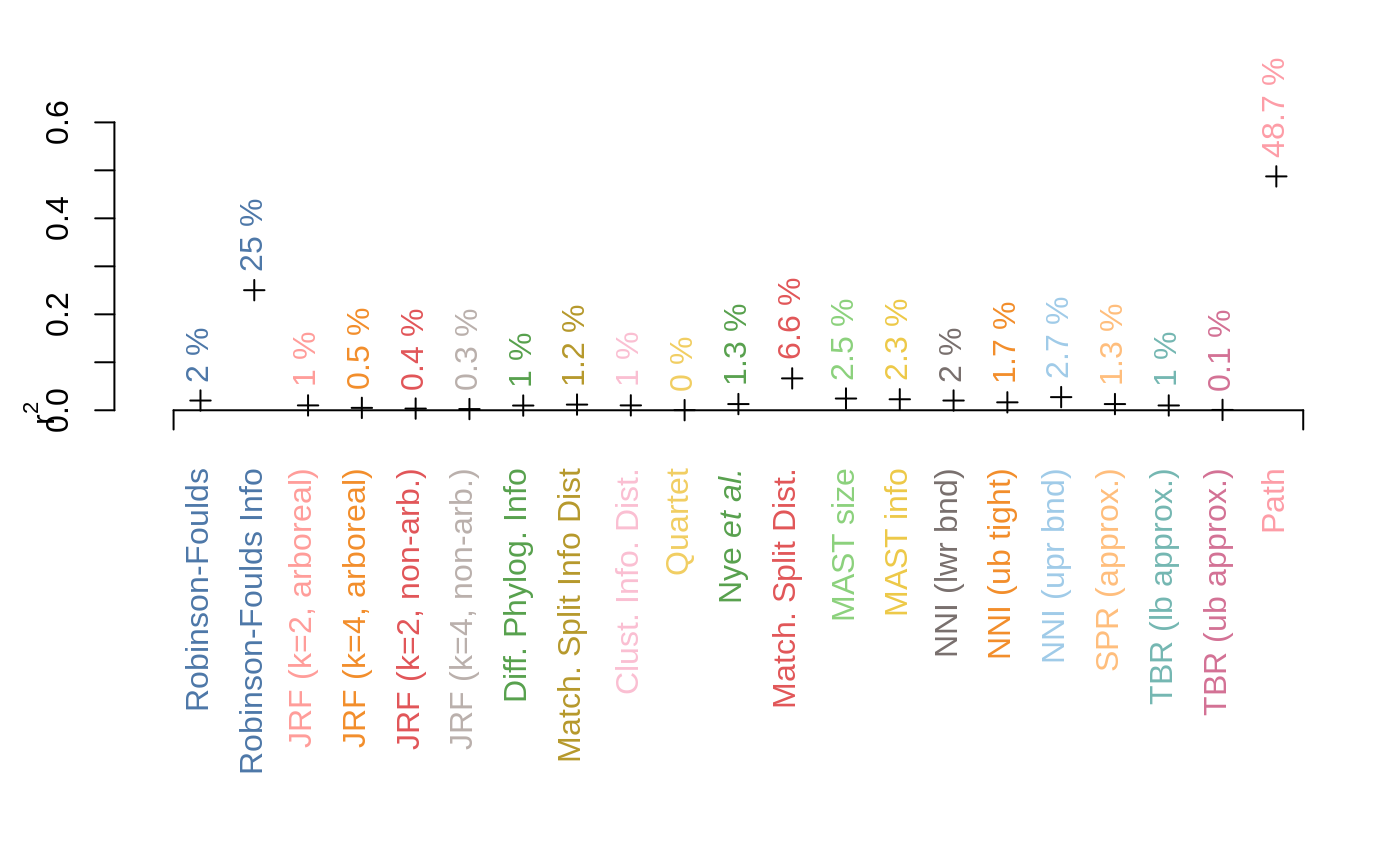
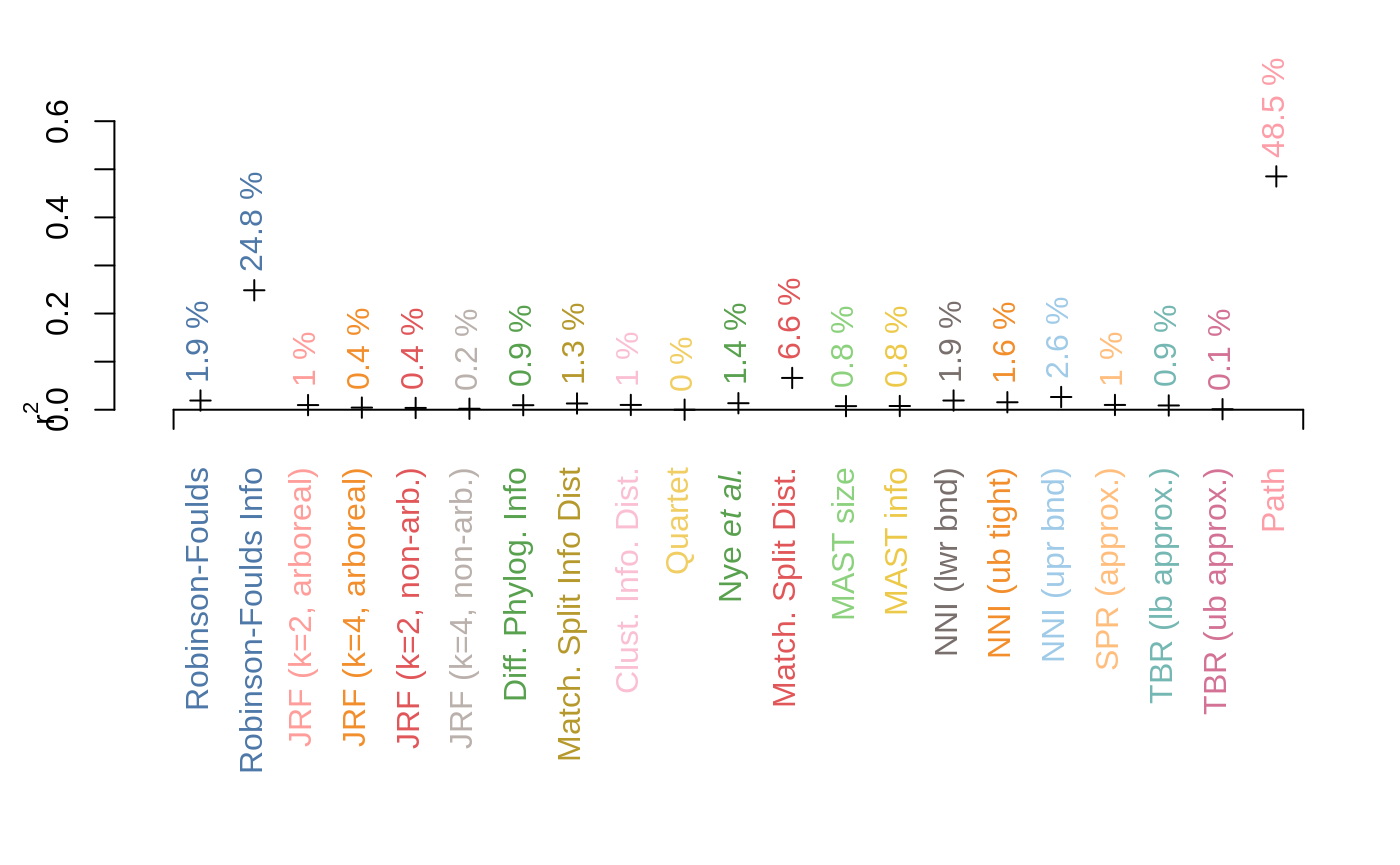
Built site for TreeDistData: 0.0.0.9007@3a7520d

diff --git a/articles/tree-shape.html b/articles/tree-shape.html
@@ -98,7 +98,7 @@
                         <h4 class="author">Martin R. Smith <a href="mailto:martin.smith@durham.ac.uk">martin.smith@durham.ac.uk</a>
 </h4>
             
-            <h4 class="date">2020-02-03</h4>
+            <h4 class="date">2020-02-04</h4>
       
       <small class="dont-index">Source: <a href="https://github.com/ms609/TreeDistData/blob/master/vignettes/tree-shape.Rmd"><code>vignettes/tree-shape.Rmd</code></a></small>
       <div class="hidden name"><code>tree-shape.Rmd</code></div>
@@ -117,108 +117,108 @@
 <tbody>
 <tr class="odd">
 <td>Robinson-Foulds</td>
-<td align="right">0.0203</td>
-<td align="right">0.0201</td>
+<td align="right">0.0192</td>
+<td align="right">0.0190</td>
 </tr>
 <tr class="even">
 <td>Robinson-Foulds Info</td>
-<td align="right">0.2503</td>
-<td align="right">0.2502</td>
+<td align="right">0.2484</td>
+<td align="right">0.2483</td>
 </tr>
 <tr class="odd">
 <td>JRF (k=2, arboreal)</td>
-<td align="right">0.0101</td>
-<td align="right">0.0100</td>
+<td align="right">0.0097</td>
+<td align="right">0.0095</td>
 </tr>
 <tr class="even">
 <td>JRF (k=4, arboreal)</td>
-<td align="right">0.0050</td>
-<td align="right">0.0048</td>
+<td align="right">0.0044</td>
+<td align="right">0.0042</td>
 </tr>
 <tr class="odd">
 <td>JRF (k=2, non-arb.)</td>
-<td align="right">0.0036</td>
-<td align="right">0.0034</td>
+<td align="right">0.0037</td>
+<td align="right">0.0035</td>
 </tr>
 <tr class="even">
 <td>JRF (k=4, non-arb.)</td>
-<td align="right">0.0025</td>
-<td align="right">0.0023</td>
+<td align="right">0.0021</td>
+<td align="right">0.0019</td>
 </tr>
 <tr class="odd">
 <td>Diff. Phylog. Info</td>
-<td align="right">0.0098</td>
-<td align="right">0.0097</td>
+<td align="right">0.0095</td>
+<td align="right">0.0093</td>
 </tr>
 <tr class="even">
 <td>Match. Split Info Dist</td>
-<td align="right">0.0119</td>
-<td align="right">0.0117</td>
-</tr>
-<tr class="odd">
-<td>Clust. Info. Dist.</td>
-<td align="right">0.0102</td>
-<td align="right">0.0101</td>
-</tr>
-<tr class="even">
-<td>Quartet</td>
-<td align="right">0.0003</td>
-<td align="right">0.0001</td>
-</tr>
-<tr class="odd">
-<td>paste(plain(“Nye”), italic(“et al.”))</td>
 <td align="right">0.0130</td>
 <td align="right">0.0128</td>
 </tr>
+<tr class="odd">
+<td>Clust. Info. Dist.</td>
+<td align="right">0.0100</td>
+<td align="right">0.0098</td>
+</tr>
+<tr class="even">
+<td>Quartet</td>
+<td align="right">0.0001</td>
+<td align="right">-0.0001</td>
+</tr>
+<tr class="odd">
+<td>paste(plain(“Nye”), italic(“et al.”))</td>
+<td align="right">0.0136</td>
+<td align="right">0.0134</td>
+</tr>
 <tr class="even">
 <td>Match. Split Dist.</td>
-<td align="right">0.0665</td>
-<td align="right">0.0663</td>
+<td align="right">0.0661</td>
+<td align="right">0.0659</td>
 </tr>
 <tr class="odd">
 <td>MAST size</td>
-<td align="right">0.0246</td>
-<td align="right">0.0244</td>
+<td align="right">0.0075</td>
+<td align="right">0.0074</td>
 </tr>
 <tr class="even">
 <td>MAST info</td>
-<td align="right">0.0229</td>
-<td align="right">0.0227</td>
+<td align="right">0.0078</td>
+<td align="right">0.0076</td>
 </tr>
 <tr class="odd">
 <td>NNI (lwr bnd)</td>
-<td align="right">0.0203</td>
-<td align="right">0.0201</td>
+<td align="right">0.0192</td>
+<td align="right">0.0190</td>
 </tr>
 <tr class="even">
 <td>NNI (ub tight)</td>
-<td align="right">0.0166</td>
-<td align="right">0.0164</td>
+<td align="right">0.0156</td>
+<td align="right">0.0154</td>
 </tr>
 <tr class="odd">
 <td>NNI (upr bnd)</td>
-<td align="right">0.0274</td>
-<td align="right">0.0273</td>
+<td align="right">0.0265</td>
+<td align="right">0.0263</td>
 </tr>
 <tr class="even">
 <td>SPR (approx.)</td>
-<td align="right">0.0129</td>
-<td align="right">0.0127</td>
+<td align="right">0.0099</td>
+<td align="right">0.0098</td>
 </tr>
 <tr class="odd">
 <td>TBR (lb approx.)</td>
-<td align="right">0.0100</td>
-<td align="right">0.0099</td>
+<td align="right">0.0089</td>
+<td align="right">0.0087</td>
 </tr>
 <tr class="even">
 <td>TBR (ub approx.)</td>
-<td align="right">0.0008</td>
-<td align="right">0.0006</td>
+<td align="right">0.0011</td>
+<td align="right">0.0009</td>
 </tr>
 <tr class="odd">
 <td>Path</td>
-<td align="right">0.4874</td>
-<td align="right">0.4873</td>
+<td align="right">0.4852</td>
+<td align="right">0.4851</td>
 </tr>
 </tbody>
 </table>

diff --git a/articles/correlation.html b/articles/correlation.html
@@ -98,7 +98,7 @@
                         <h4 class="author">Martin R. Smith <a href="mailto:martin.smith@durham.ac.uk">martin.smith@durham.ac.uk</a>
 </h4>
             
-            <h4 class="date">2020-02-03</h4>
+            <h4 class="date">2020-02-04</h4>
       
       <small class="dont-index">Source: <a href="https://github.com/ms609/TreeDistData/blob/master/vignettes/correlation.Rmd"><code>vignettes/correlation.Rmd</code></a></small>
       <div class="hidden name"><code>correlation.Rmd</code></div>

diff --git a/articles/spr-walking.html b/articles/spr-walking.html
@@ -98,7 +98,7 @@
                         <h4 class="author">Martin R. Smith <a href="mailto:martin.smith@durham.ac.uk">martin.smith@durham.ac.uk</a>
 </h4>
             
-            <h4 class="date">2020-02-03</h4>
+            <h4 class="date">2020-02-04</h4>
       
       <small class="dont-index">Source: <a href="https://github.com/ms609/TreeDistData/blob/master/vignettes/spr-walking.Rmd"><code>vignettes/spr-walking.Rmd</code></a></small>
       <div class="hidden name"><code>spr-walking.Rmd</code></div>

diff --git a/articles/number-moves-made.html b/articles/number-moves-made.html
@@ -97,7 +97,7 @@
       <h1>Number of moves made</h1>
                         <h4 class="author">Martin R. Smith</h4>
             
-            <h4 class="date">2020-02-03</h4>
+            <h4 class="date">2020-02-04</h4>
       
       <small class="dont-index">Source: <a href="https://github.com/ms609/TreeDistData/blob/master/vignettes/number-moves-made.Rmd"><code>vignettes/number-moves-made.Rmd</code></a></small>
       <div class="hidden name"><code>number-moves-made.Rmd</code></div>

diff --git a/articles/Lin.html b/articles/Lin.html
@@ -98,7 +98,7 @@
                         <h4 class="author">Martin R. Smith <a href="mailto:martin.smith@durham.ac.uk">martin.smith@durham.ac.uk</a>
 </h4>
             
-            <h4 class="date">2020-02-03</h4>
+            <h4 class="date">2020-02-04</h4>
       
       <small class="dont-index">Source: <a href="https://github.com/ms609/TreeDistData/blob/master/vignettes/Lin.Rmd"><code>vignettes/Lin.Rmd</code></a></small>
       <div class="hidden name"><code>Lin.Rmd</code></div>
